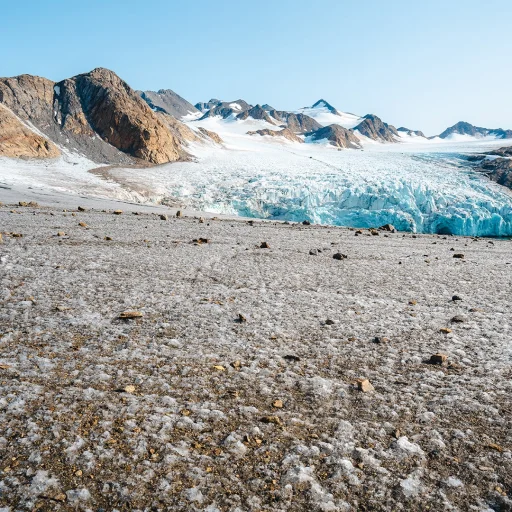
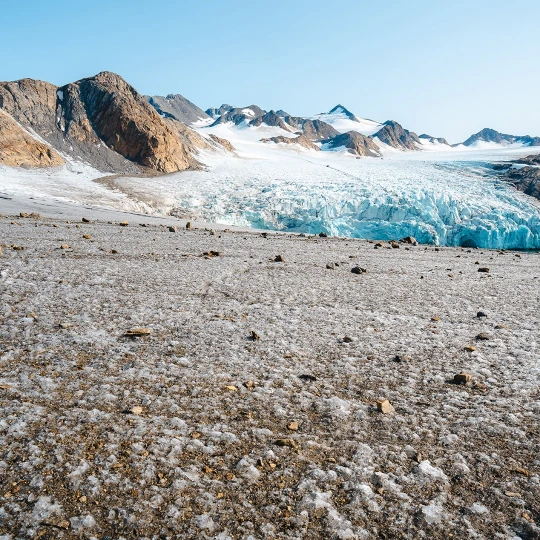
playing more with image sizes

diff --git a/_includes/image_row.html b/_includes/image_row.html
@@ -2,31 +2,31 @@
   <div class="-my-4 flex justify-center gap-5 overflow-hidden py-4 sm:gap-8">
     <div
       class="relative aspect-[9/10] w-44 flex-none overflow-hidden rounded-xl bg-zinc-100 sm:w-72 sm:rounded-2xl dark:bg-zinc-800 rotate-2">
-      <img alt="" width="1080" height="1080" decoding="async" data-nimg="1"
+      <img alt="" width="540" height="540" decoding="async" data-nimg="1"
         class="absolute inset-0 h-full w-full object-cover" style="color:transparent"
         src="/assets/images/{{ page.pic1 | default: 'glacier' }}.webp">
     </div>
     <div
       class="relative aspect-[9/10] w-44 flex-none overflow-hidden rounded-xl bg-zinc-100 sm:w-72 sm:rounded-2xl dark:bg-zinc-800 -rotate-2">
-      <img alt="" width="1080" height="1080" decoding="async" data-nimg="1"
+      <img alt="" width="540" height="540" decoding="async" data-nimg="1"
         class="absolute inset-0 h-full w-full object-cover" style="color:transparent"
         src="/assets/images/{{ page.pic2 | default: 'greenland' }}.webp">
     </div>
     <div
       class="relative aspect-[9/10] w-44 flex-none overflow-hidden rounded-xl bg-zinc-100 sm:w-72 sm:rounded-2xl dark:bg-zinc-800 rotate-2">
-      <img alt="" width="1080" height="1080" decoding="async" data-nimg="1"
+      <img alt="" width="540" height="540" decoding="async" data-nimg="1"
         class="absolute inset-0 h-full w-full object-cover" style="color:transparent"
         src="/assets/images/{{ page.pic3 | default: 'greensky' }}.webp">
     </div>
     <div
       class="relative aspect-[9/10] w-44 flex-none overflow-hidden rounded-xl bg-zinc-100 sm:w-72 sm:rounded-2xl dark:bg-zinc-800 rotate-2">
-      <img alt="" width="1080" height="1080" decoding="async" data-nimg="1"
+      <img alt="" width="540" height="540" decoding="async" data-nimg="1"
         class="absolute inset-0 h-full w-full object-cover" style="color:transparent"
         src="/assets/images/{{ page.pic4 | default: 'hawaii' }}.webp">
     </div>
     <div
       class="relative aspect-[9/10] w-44 flex-none overflow-hidden rounded-xl bg-zinc-100 sm:w-72 sm:rounded-2xl dark:bg-zinc-800 -rotate-2">
-      <img alt="" width="1080" height="1080" decoding="async" data-nimg="1"
+      <img alt="" width="540" height="540" decoding="async" data-nimg="1"
         class="absolute inset-0 h-full w-full object-cover" style="color:transparent"
         src="/assets/images/{{ page.pic5 | default: 'singapore' }}.webp">
     </div>
